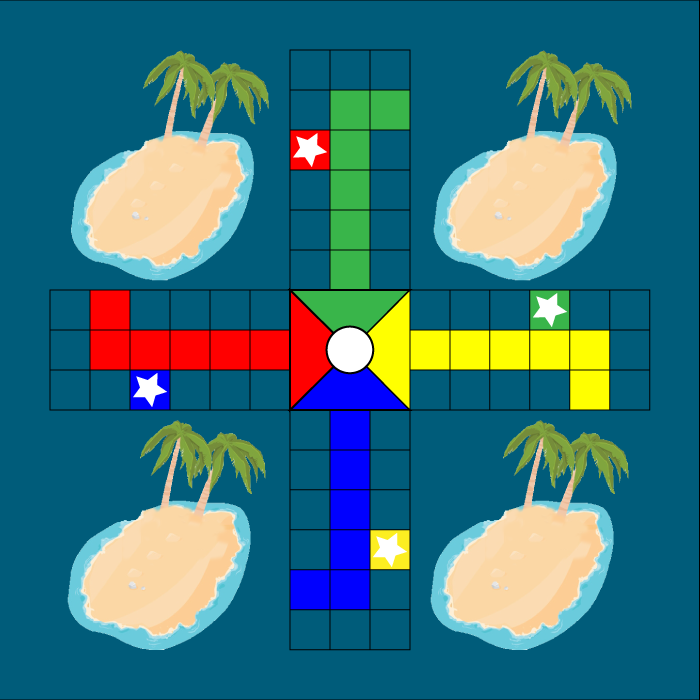
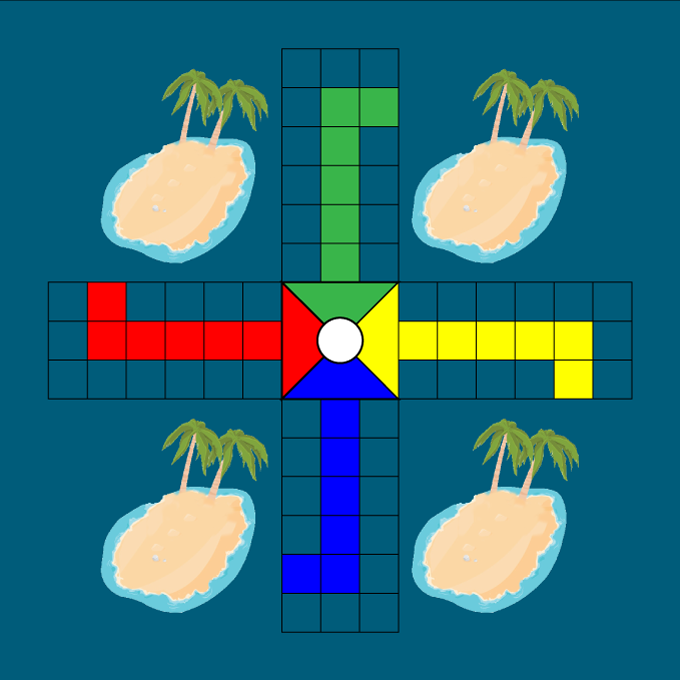
fixed the window size

diff --git a/src/game/Main.java b/src/game/Main.java
@@ -32,7 +32,7 @@ public class Main extends Application {
         root = FXMLLoader.load(getClass().getResource("menu.fxml"));
         game = FXMLLoader.load(getClass().getResource("game.fxml"));
         menuScene = new Scene(root, 600, 450);
-        gameScene = new Scene(game, 800, 750);
+        gameScene = new Scene(game, 1100, 750);
         primaryStage.setTitle("ISTE-121 Ludo Project");
         primaryStage.setScene(menuScene);
         primaryStage.show();

diff --git a/src/game/server/Config.java b/src/game/server/Config.java
@@ -12,7 +12,7 @@ public class Config {
 
     public enum Color{RED, YELLOW, GREEN, BLUE}
 
-    public static final int[] RED_STARTING = {71, 72, 88, 89};
+    public static final int[] RED_STARTING = {71, 72, 88, 73};
     public static final int[] GREEN_STARTING = {80, 81, 97, 98};
     public static final int[] YELLOW_STARTING = {233, 234, 250, 251};
     public static final int[] BLUE_STARTING = {224, 225, 241, 242};

diff --git a/src/game/client/Client.java b/src/game/client/Client.java
@@ -29,7 +29,7 @@ public class Client extends Thread implements Runnable {
 
     public Client(GraphicsContext gtx) {
         this.gtx = gtx;
-        this.ludoBoard = new Image("assets/ludo-board.png");
+        this.ludoBoard = new Image("ludo-board3.png");
         gamePieces = new GamePiece[16];
         for (int i = 0; i < 16; i++) {
             gamePieces[i] = new GamePiece(0, 0, 0);

diff --git a/src/game/client/MenuController.java b/src/game/client/MenuController.java
@@ -192,10 +192,6 @@ public class MenuController {
 
     @FXML
     private void startServer() {
-        if (connection != null) {
-            //connection.dispose();
-            connection = null;
-        }
         if (!validColors()) {
             JOptionPane.showMessageDialog(null, "One or more players are trying to use the same color!");
             return;
